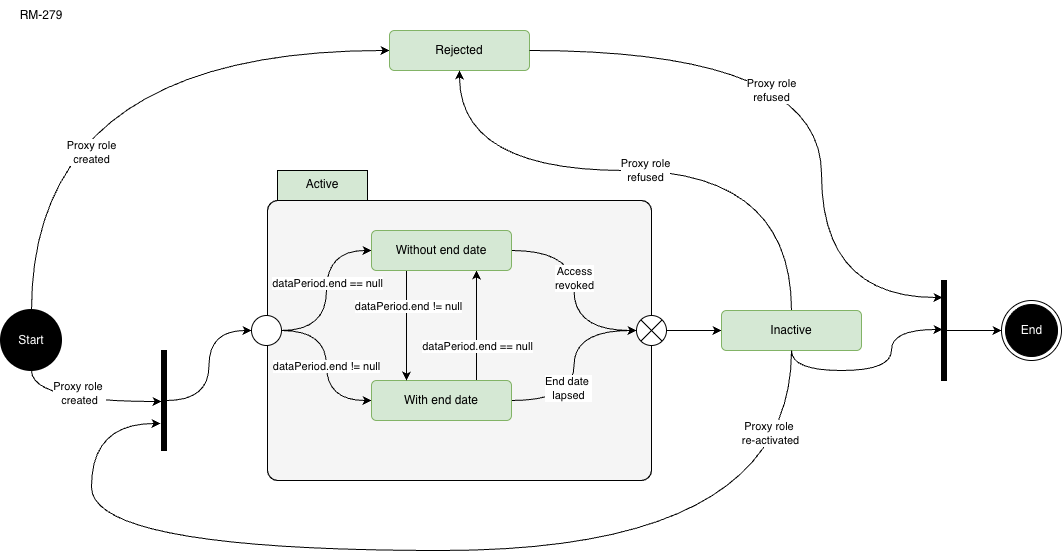
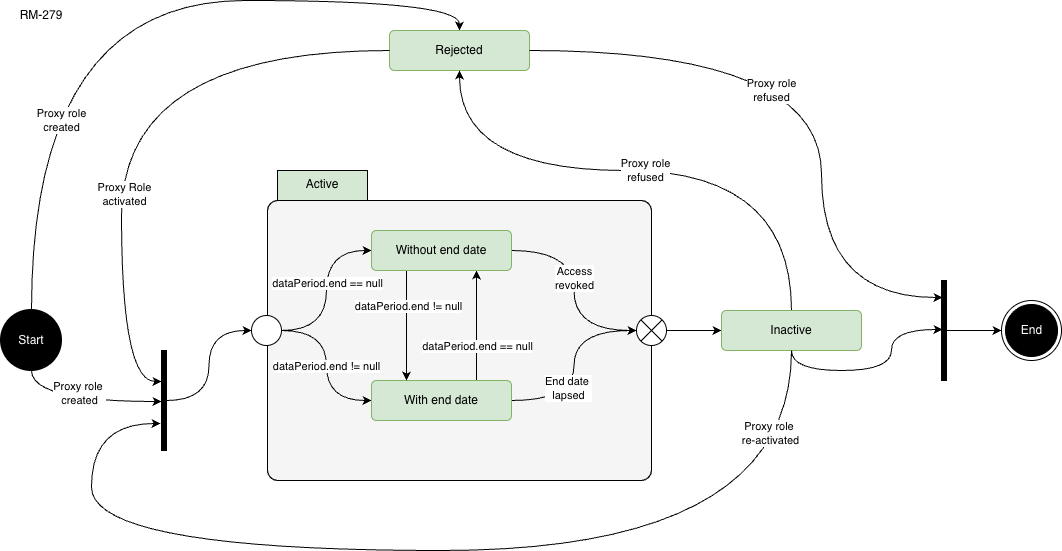
Updated state machine so that rejected proxy roles can be activated

diff --git a/src/fhir-specifications/consent-resource.md b/src/fhir-specifications/consent-resource.md
@@ -30,6 +30,12 @@ The table below maps out the valid use of status reasons for each status code. T
       <td>Role created</td>
     </tr>
     <tr>
+      <td>Rejected</td>
+      <td>Active</td>
+      <td>ROLE_ACTIVATED</td>
+      <td>Role activated</td>
+    </tr>
+    <tr>
       <td>Inactive</td>
       <td>Active</td>
       <td>ROLE_REACTIVATED</td>